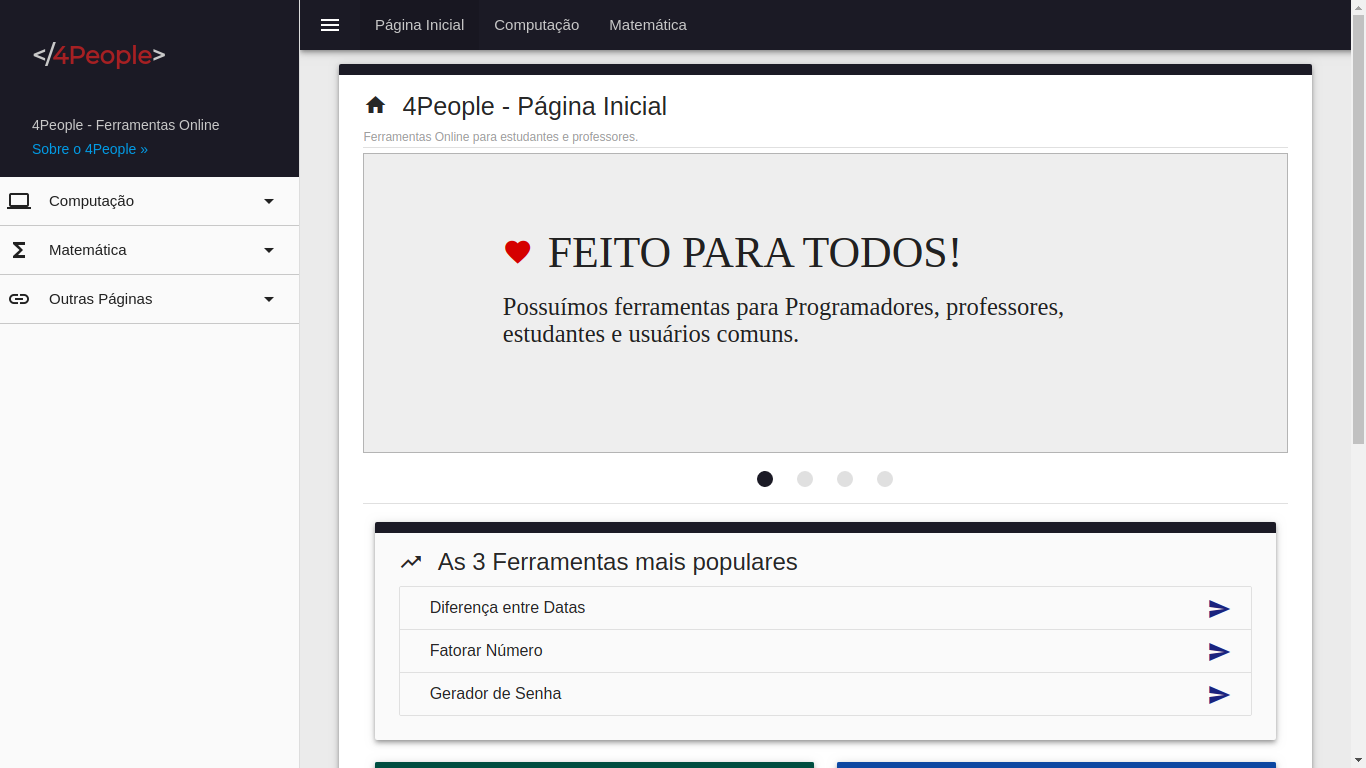
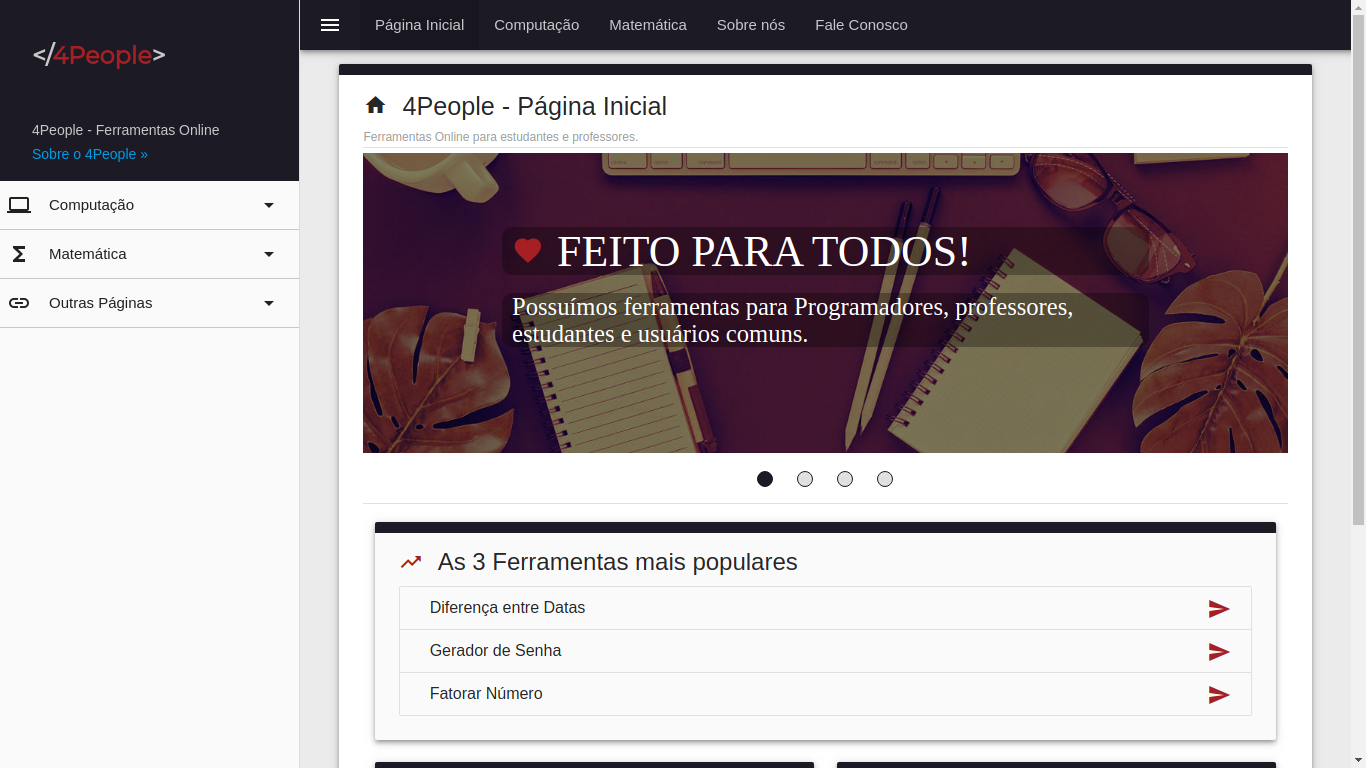
README and images were updated

diff --git a/README.md b/README.md
@@ -70,11 +70,14 @@
 - Página Inicial
 ![4people](assets/images/README_images/4people.png "4People - Início")
 
+- Página Inicial 2
+![4people](assets/images/README_images/4people_2.png "4People - Início")
+
 - Computação
 ![4people](assets/images/README_images/computacao.png "4People - Computação")
 
 - Matemática
 ![4people](assets/images/README_images/matematica.png "4People - Matemática")
 
-- Sobre
-![4people](assets/images/README_images/sobre.png "4People - Sobre")
+- Fale Conosco
+![4people](assets/images/README_images/fale_conosco.png "4People - Fale Conosco")
